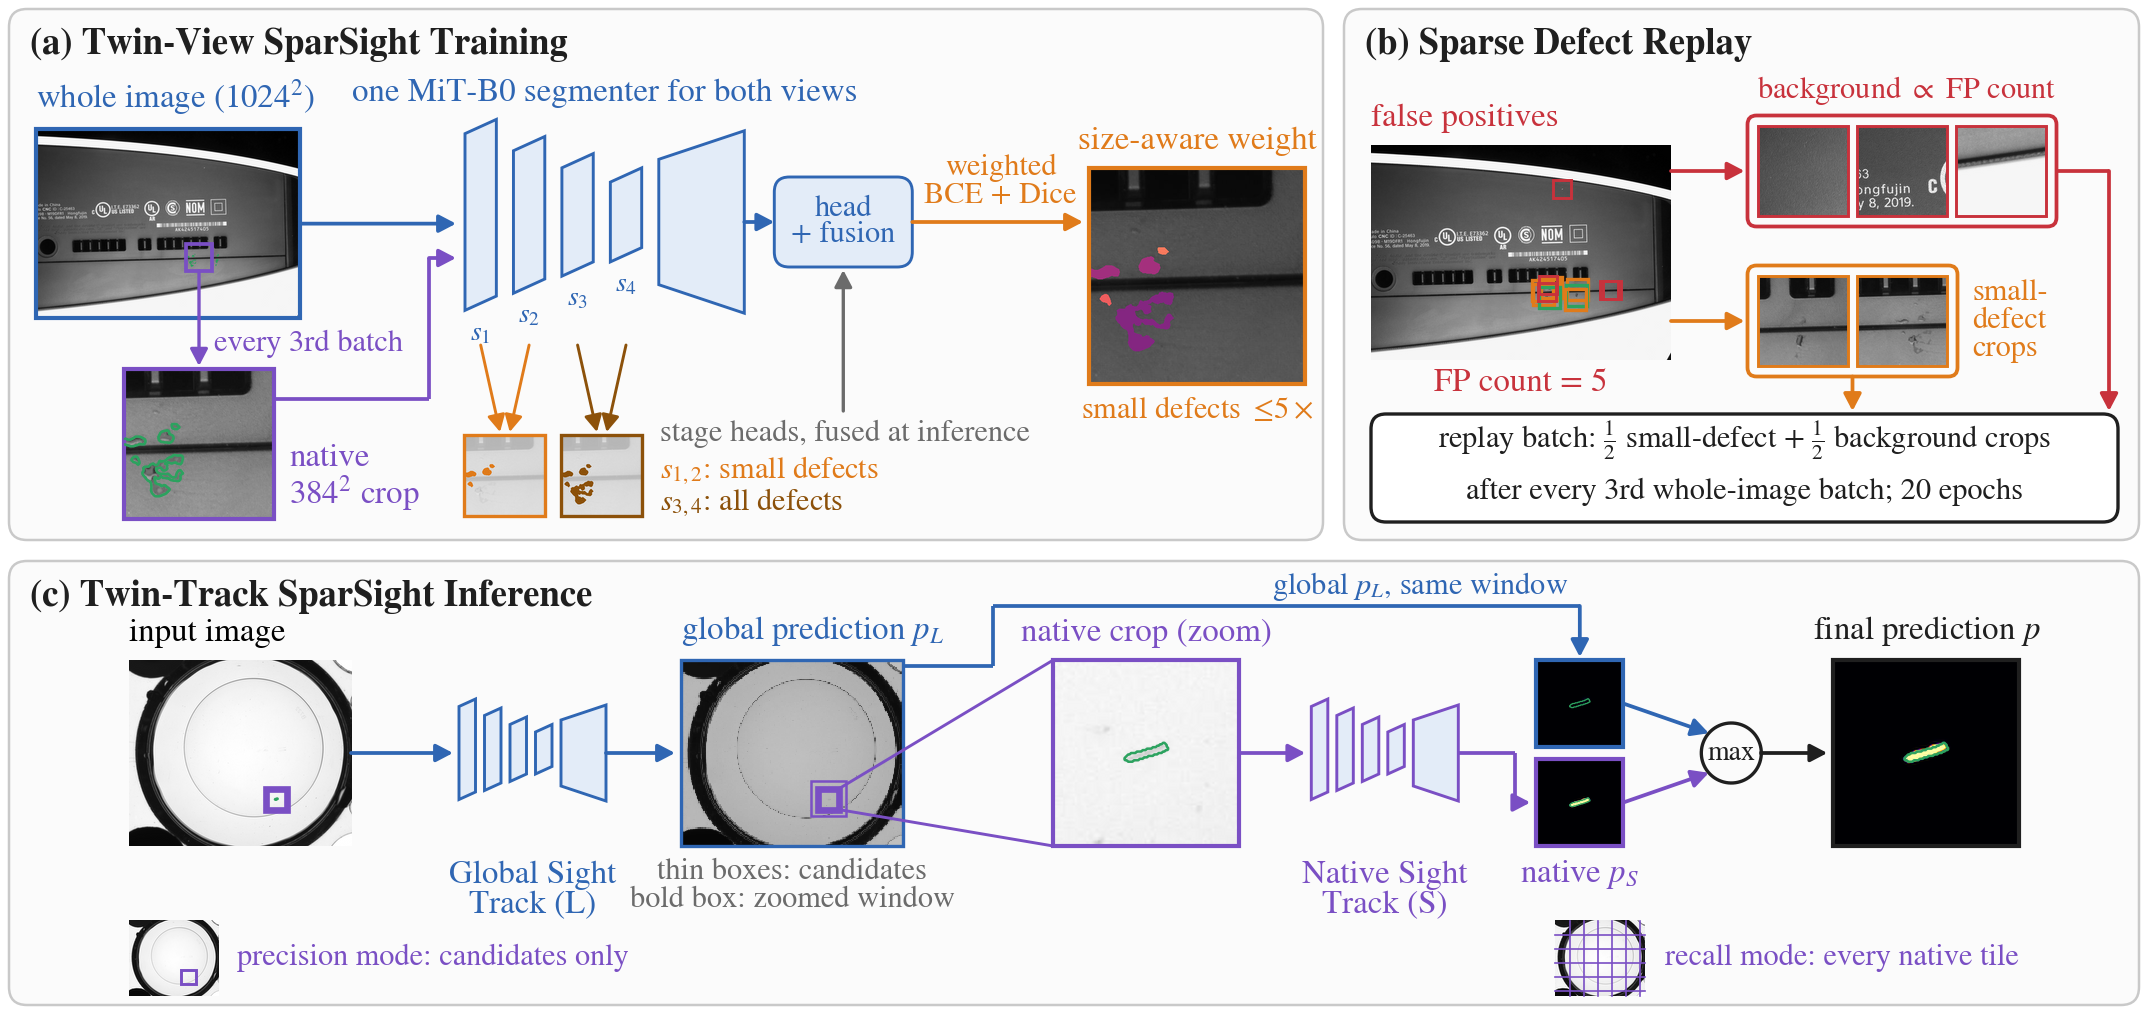
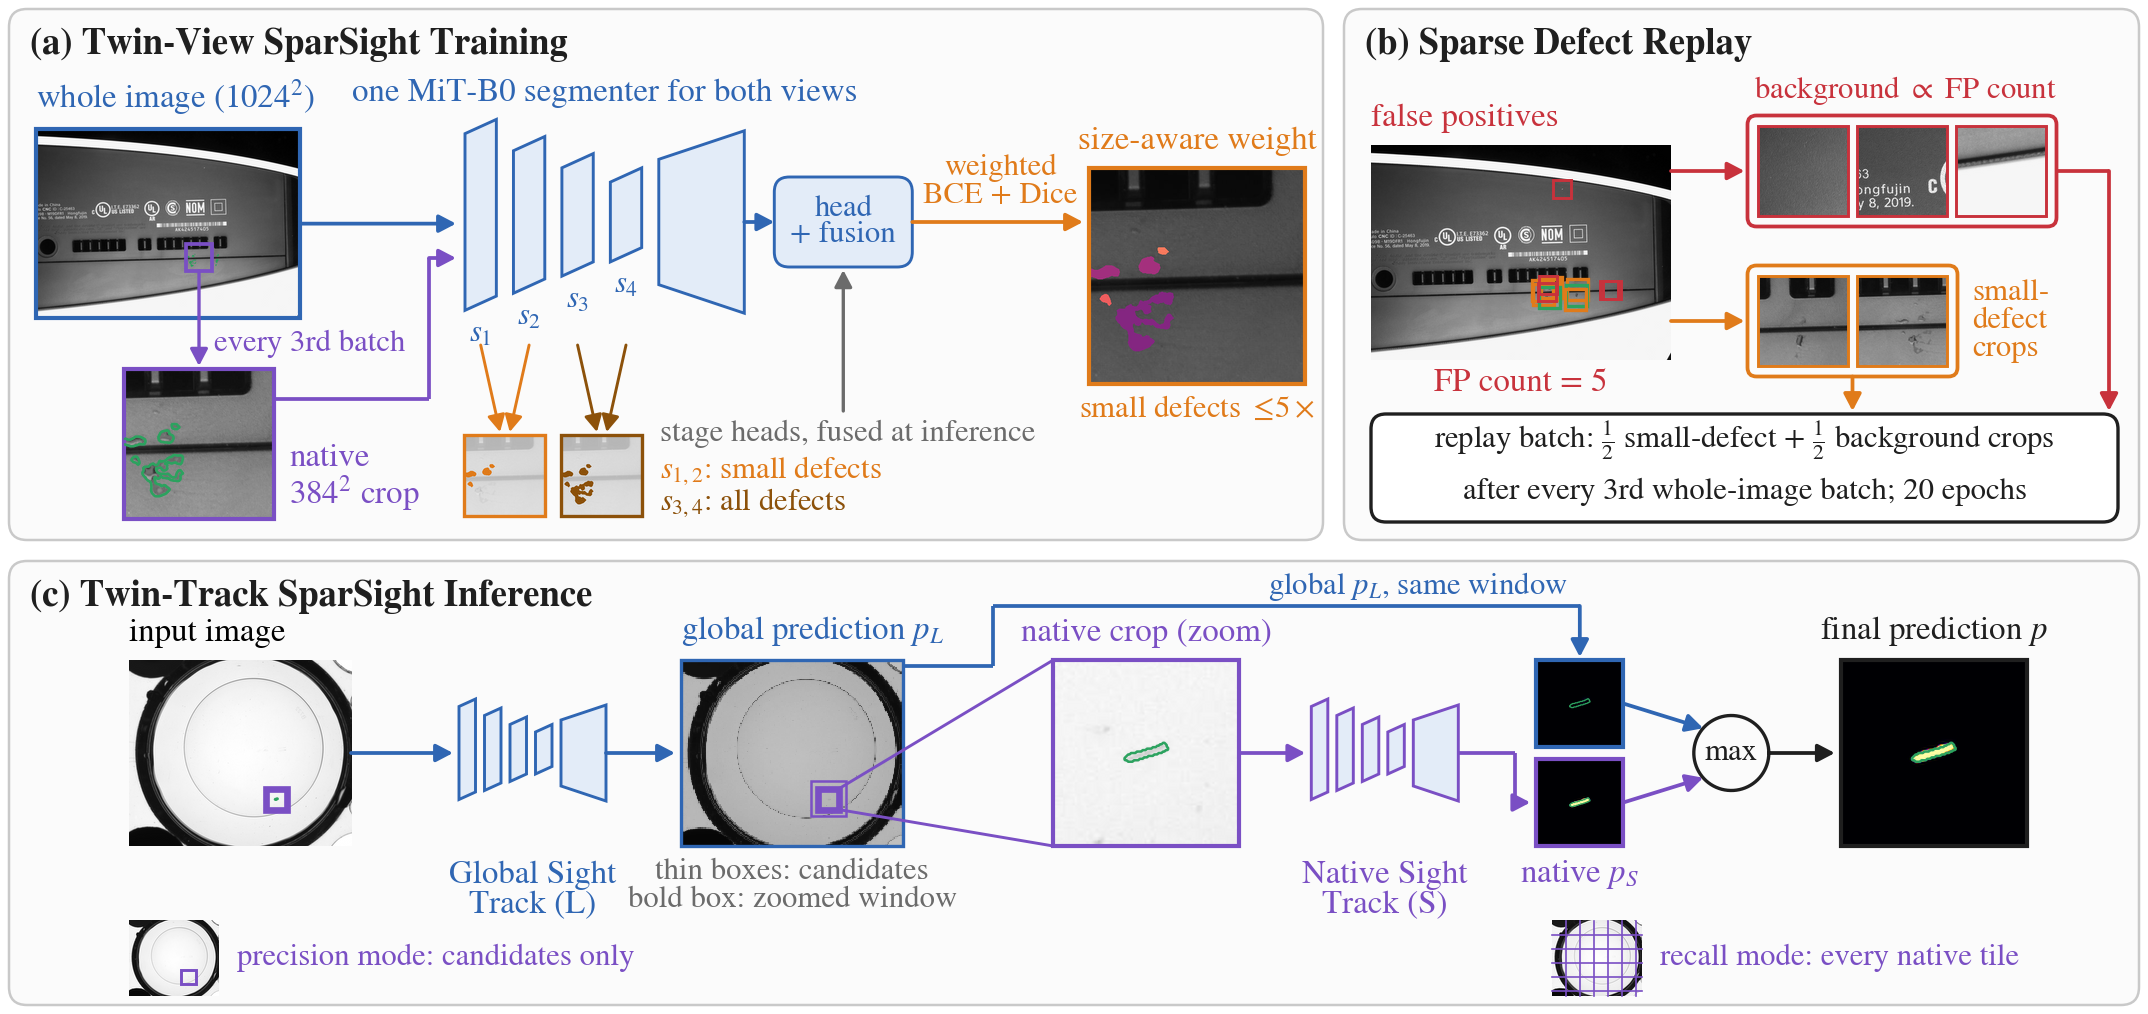
Figure scripts: smallest type >= 7 pt (as in the paper)

diff --git a/tools/figures/fig1_framework.py b/tools/figures/fig1_framework.py
@@ -84,7 +84,7 @@ def net(ax, x, y, s=1.0, c=LOW, label=True, stages=True):
         ax.add_patch(Polygon([(xx, y - h / 2), (xx + 0.11 * s, y - h / 2 + 0.05 * s), (xx + 0.11 * s, y + h / 2 + 0.05 * s),
                               (xx, y + h / 2)], closed=True, fc=NETF, ec=c, lw=0.7, zorder=4))
         if stages:
-            ax.text(xx + 0.055 * s, y - h / 2 - 0.035, f"$s_{i + 1}$", ha="center", va="top", fontsize=6.6, color=c)
+            ax.text(xx + 0.055 * s, y - h / 2 - 0.035, f"$s_{i + 1}$", ha="center", va="top", fontsize=7.4, color=c)
         xx += 0.17 * s
     ax.add_patch(Polygon([(xx, y - 0.22 * s), (xx + 0.30 * s, y - 0.32 * s), (xx + 0.30 * s, y + 0.32 * s), (xx, y + 0.22 * s)],
                          closed=True, fc=NETF, ec=c, lw=0.7, zorder=4))
@@ -145,7 +145,7 @@ def draw(out_dir):
     R = np.load(resolve(DATA) / "replay.npz")
     I = np.load(resolve(DATA) / "infer.npz")
     plt.rcParams.update({"font.size": 7.2})
-    LAB, SMALL, TITLE = 7.9, 7.3, 8.8
+    LAB, SMALL, TITLE = 7.9, 7.4, 8.8  # printed at 0.95: >= 7 pt
     W, H, Y0 = 7.16, 3.72, 0.34  # inches; [Y0, H] shown; (c) is drawn compact and moved up by DC (below)
     DC = 0.14
     fig = plt.figure(figsize=(W, H - Y0))
@@ -360,9 +360,9 @@ def draw(out_dir):
         c=LOW)
     ax.text(ox + cz / 2 - 0.04, yr + 0.01, "global $p_L$, same window", ha="right", va="bottom", fontsize=SMALL,
             color=LOW)
-    mx, my_, mr = ox + cz + 0.36, ctr, 0.10
+    mx, my_, mr = ox + cz + 0.36, ctr, 0.125
     ring(ax, mx, my_, mr, c=INK, lw=0.8)
-    ax.text(mx, my_, "max", ha="center", va="center", fontsize=SMALL - 0.6, color=INK)
+    ax.text(mx, my_, "max", ha="center", va="center", fontsize=SMALL, color=INK)
     seg(ax, [(ox + cz, yt + cz / 2), (mx - mr * 0.75, my_ + mr * 0.66)], c=LOW)
     seg(ax, [(ox + cz, yb + cz / 2), (mx - mr * 0.75, my_ - mr * 0.66)], c=NAT)
     fx_ = mx + mr + 0.24
